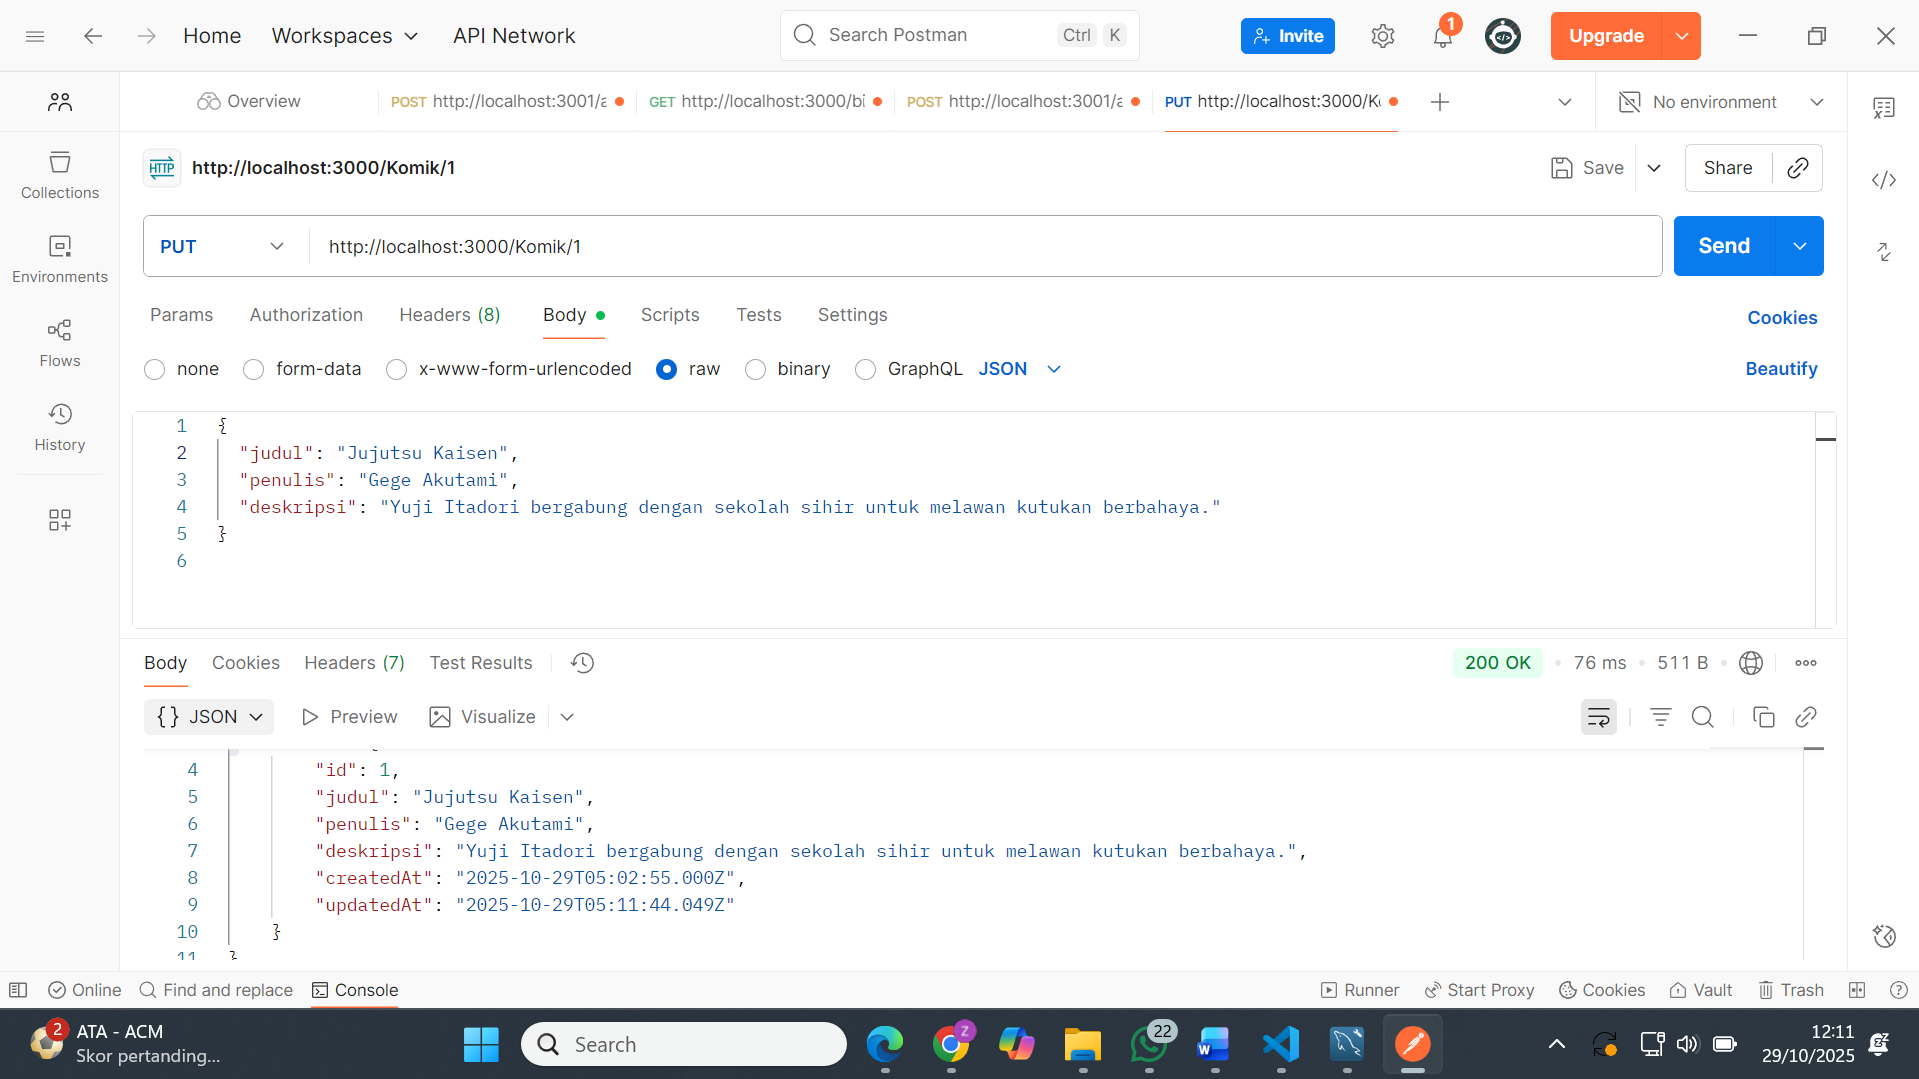
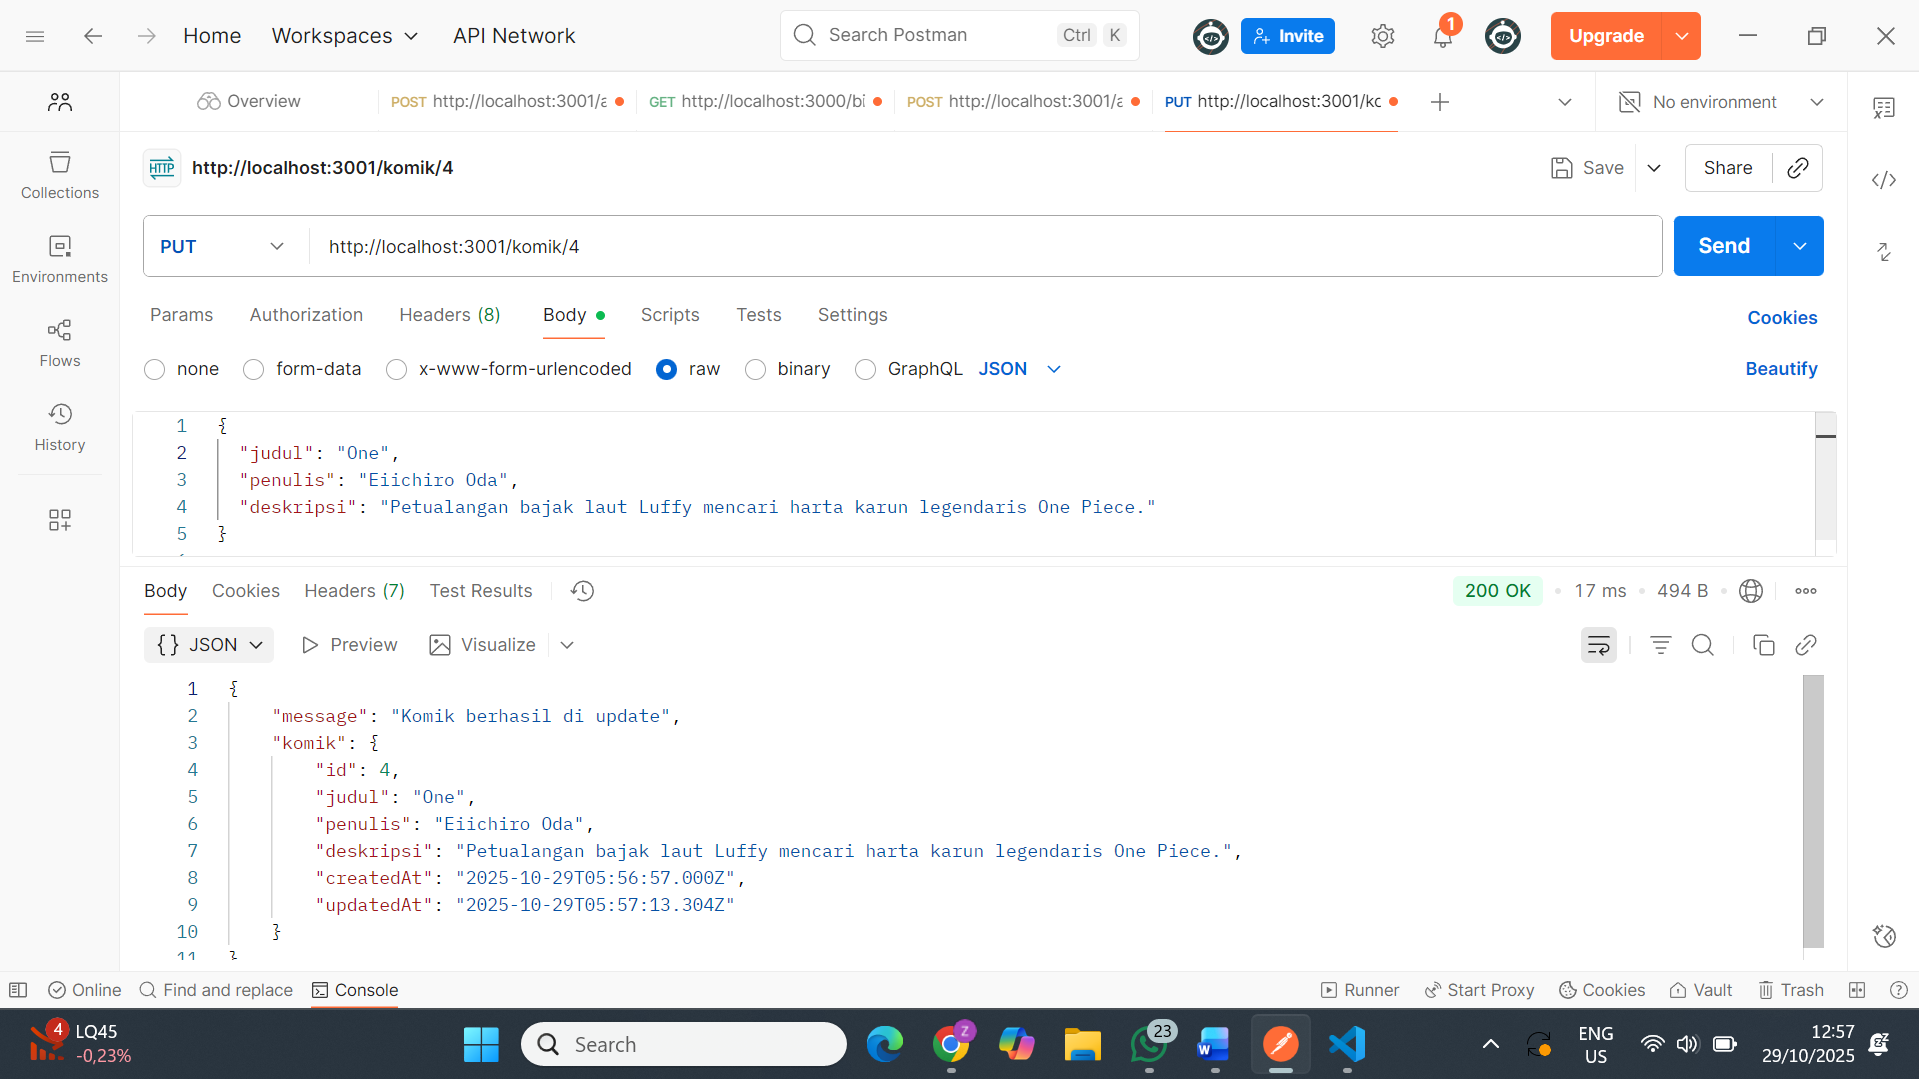
update foto put

diff --git a/index.js b/index.js
@@ -4,41 +4,66 @@ const PORT = 3001;
 const db = require('./models');
 
 app.use(express.json());
-app.use(express.urlencoded({ extended: false }));
+app.use(express.urlencoded({extended: false}));
 
+app.listen(PORT,() =>{
+    console.log('Server started on port 3000');
+})
 db.sequelize.sync()
-  .then(() => {
-    app.listen(PORT, () => {
-      console.log(`Server started on port ${PORT}`);
+    .then((result) => {
+        app.listen(3000, () => {
+            console.log('Server Started');
+        })
+    })
+    .catch((err) => {
+        console.log(err);
+    })
+
+    app.post('/komik', async (req, res) => {
+        const data = req.body;
+        try{
+            const komik = await db.Komik.create(data);
+            res.send(komik);
+        }catch (error){}
+        res.send({message: error.message});
     });
-  })
-  .catch((err) => {
-    console.log(err);
-  });
 
-  app.post('/komik', async (req, res) => {
-  const data = req.body;
-  try {
-    const komik = await db.Komik.create(data);
-    res.send(komik);
-  } catch (error) {
-    res.send({ message: error.message });
-  }
-});
+    app.get('/komik', async (req, res) => {
+        try{
+            const komik = await db.Komik.findAll();
+            res.send(komik);
+        }
+        catch (error){
+            res.send({message: error.message});
+        }
+    });
 
-app.get('/komik', async (req, res) => {
-  try {
-    const komik = await db.Komik.findAll();
-    res.send(komik);
-  } catch (error) {
-    res.send({ message: error.message });
-  }
-});
+    app.put('/komik/:id', async (req, res) => {
+        const id = req.params.id;
+        const data = req.body;
+        try{
+            const komik = await db.Komik.findByPk(id);
+            if (!komik) {
+                return res.status(404).send({message: 'Komik not found'});
+            }
+            await komik.update(data);
+            res.send({message: "Komik berhasil di update", komik});
+        }
+        catch (error){
+            res.send({message: error.message});
+        }
+    });
 
-
-
-
-
-
-
-
+    app.delete('/komik/id', async (req, res) => {
+        const id = req.params.id;
+        try{
+            const Komik = await db.Komik.findByPk(id);
+            if(!komik){
+                return res.status(404).send({message: 'Komik not found'});
+            }
+            await komik.destroy();
+            res.send({message: 'Komik berhasil dihapus'});
+        }catch (error){
+            res.status(500).send(err)
+        }
+    });
